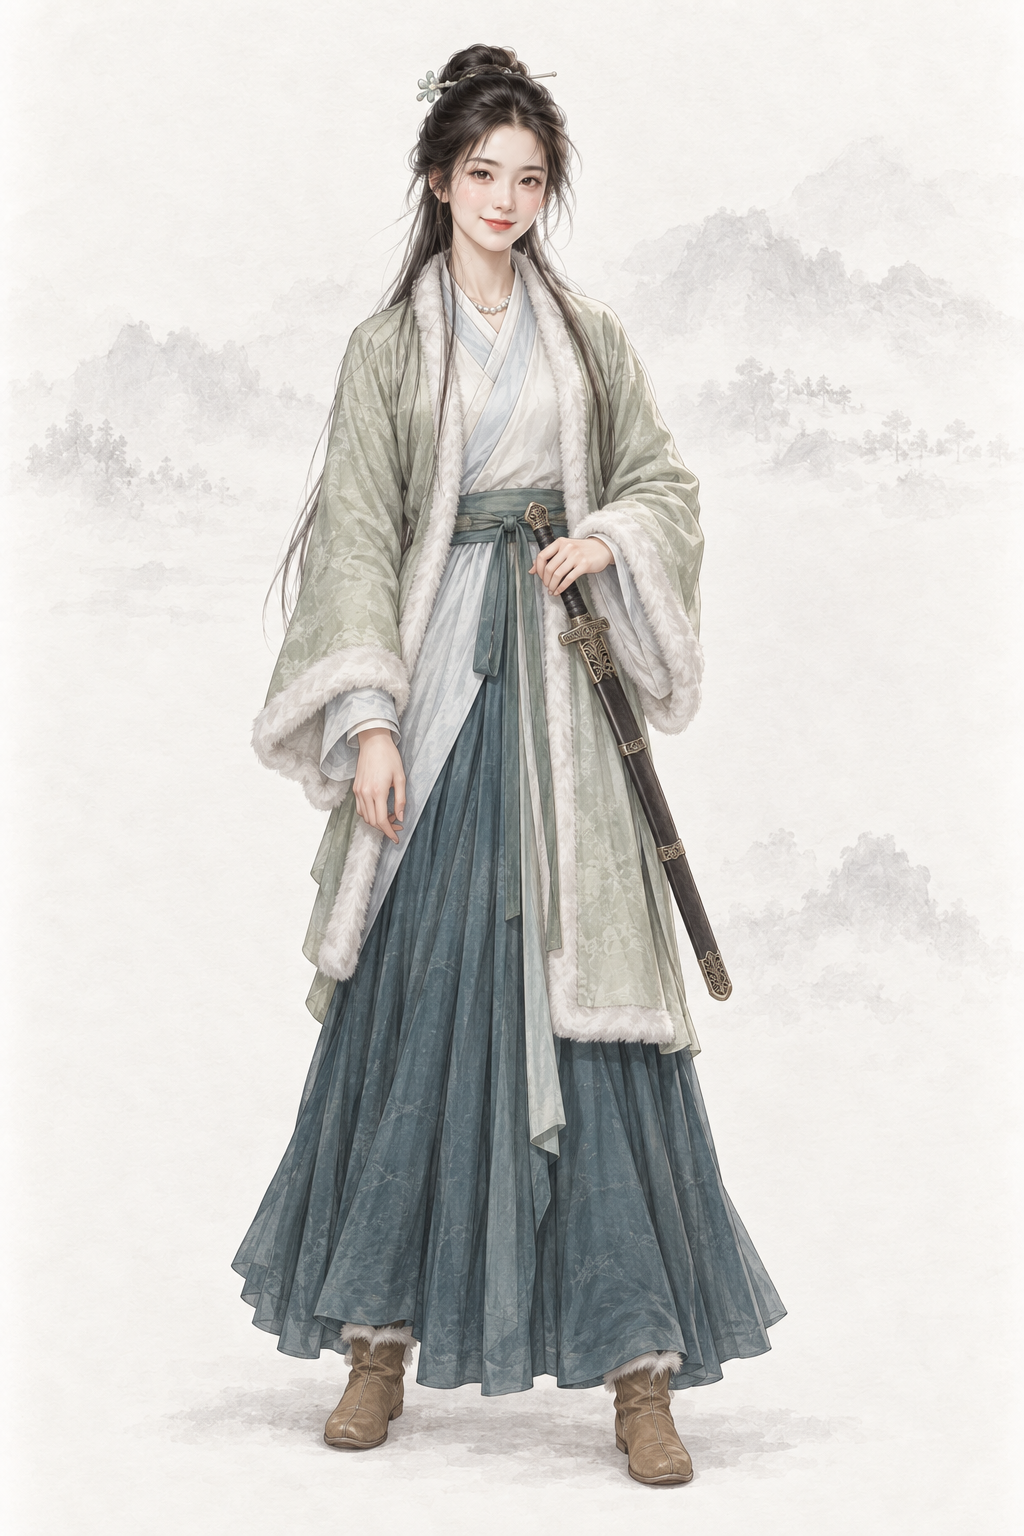
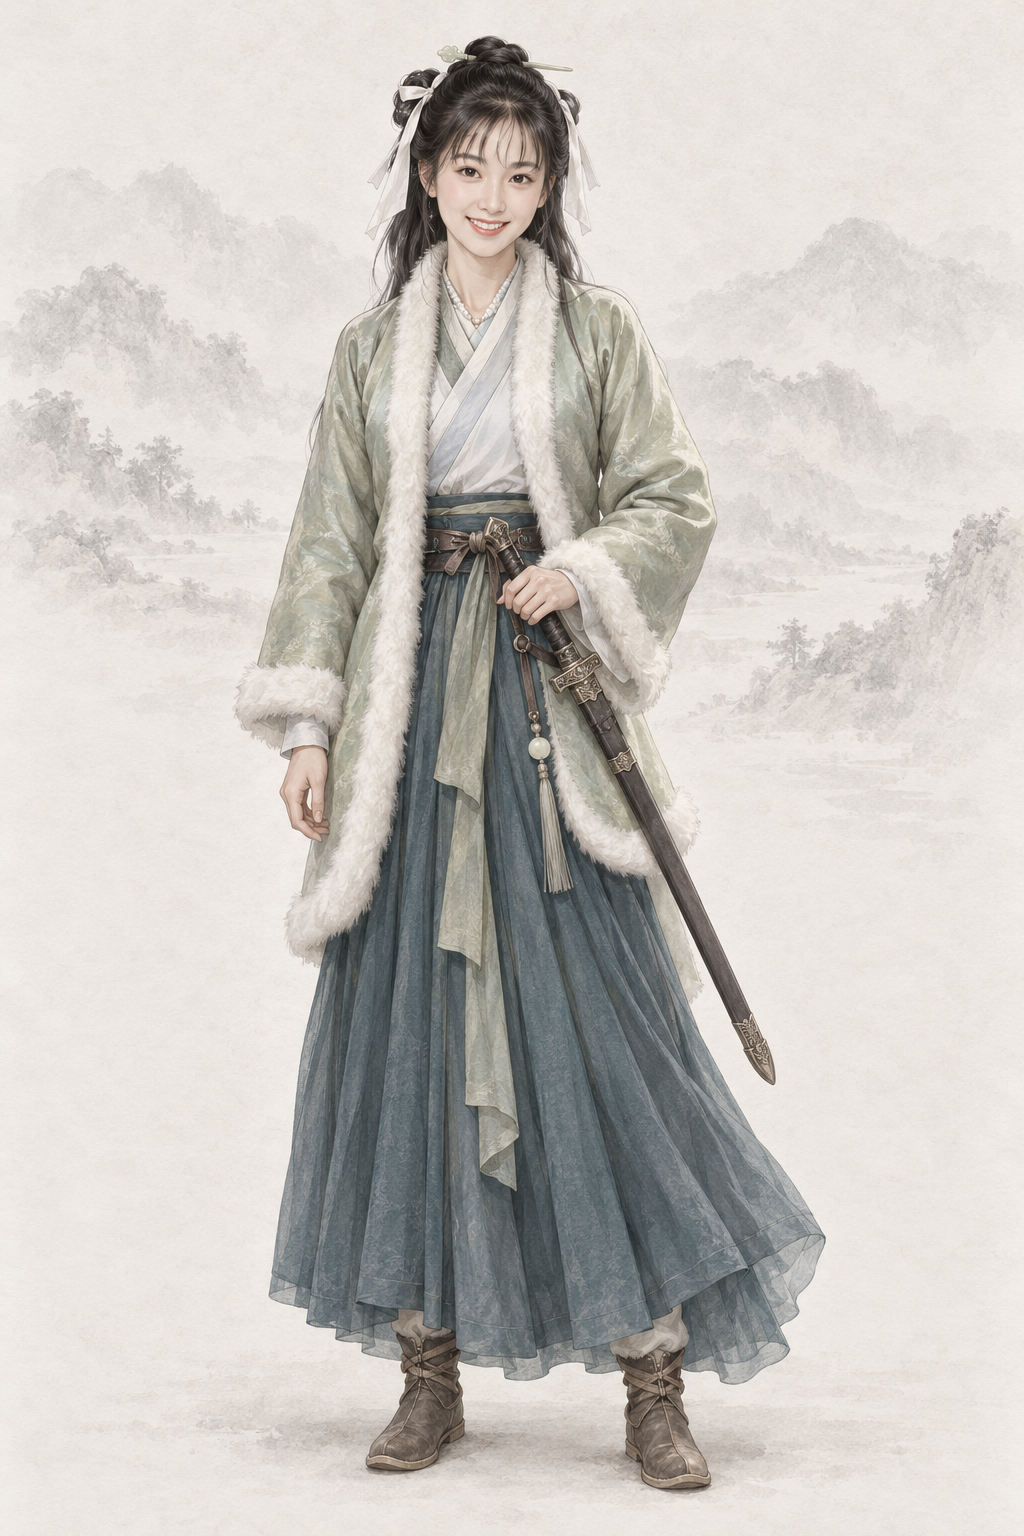
assets(character): por_npc_guoxiang__ch03_youth_base 郭襄（codex · AR-32 经典剧照 + 基线）
参考 1995 TVB《神雕侠侣》 剧照（guoxiang_1995_liqihong.jpg）与两张同性别基线重出；提示词写回、frontmatter 加 classic_ref。

diff --git a/assets/default/prompts/characters/ch03-shendiao/npc_guoxiang.md b/assets/default/prompts/characters/ch03-shendiao/npc_guoxiang.md
@@ -19,13 +19,40 @@ status: new
 realism_revision: user_identity_pose_20261001
 redo_reason: "S 级郭襄尚无立绘；按原著风陵渡“淡绿缎子皮袄、颈挂一串明珠”与禁止幼态补出成年年轻女子"
 reference_upload:
+- .agents/coord/imagegen-reference/identity-20261001/shendiao/guoxiang_1995_liqihong.jpg
 - assets/default/baseline/character/female/ref_npc_wangyuyan__ch01_base01.png
+- assets/default/baseline/character/female/ref_npc_xiaolongnv__ch03_base01.png
 codex_prompt_rev: 2026-10-02
+classic_ref:
+  version: 1995 TVB《神雕侠侣》
+  stills:
+  - .agents/coord/imagegen-reference/identity-20261001/shendiao/guoxiang_1995_liqihong.jpg
 ---
 
 # 郭襄 · 人物写实修正
 
 ## Gemini 提示词
+
+> 2026-10-02 AR-32 重出（5 号出图员，codex exec · image_gen）：主要角色改为参考经典影视版剧照加项目基线生成。上传顺序：1995 TVB《神雕侠侣》 剧照 1 张（guoxiang_1995_liqihong.jpg），最后两张为同性别画风基线（缩小版 JPEG）。剧照只借造型、气质与面部特征，画面按项目画风重绘、不复制照片。上一版（AR-31 文字版）保留在下一节作历史。
+
+```text
+生成一张 2:3 竖幅全身人物立绘：单人、单一视角、完整全身——头顶、双手、双脚和手中器物的两端都在画面内，四周留出自然空白；人物站姿自然，身体基本朝向正面，头部端正（不歪头、不仰不俯），镜头平视。
+【画风】写实手绘古风人物插画，与本项目写实武侠角色立绘同一画风：人物是完整、坚实、比例真实的写实绘画；皮肤有真实质感——细小毛孔、细纹、晒痕、轻微色斑和自然的左右不对称，不磨皮、不油亮；头发有一根根的发丝和自然碎发；布料看得出经纬纹理、厚薄和自然垂坠的褶皱，带穿用过的轻微旧化，但完整不破烂；整体设色低饱和、沉稳；柔和的自然光从左上方照来，明暗过渡自然，不打舞台光、轮廓光或美颜柔光。这是手绘写实绘画，不是照片，不是三维渲染，也不是动漫或游戏 CG。
+【背景】不透明的暖浅灰色纸底，只在远处有极淡的水墨远山和薄雾，大面积留白；人物与背景明暗分明、轮廓边缘干净完整（后续要自动抠图），水墨和纸纹只在背景里，不侵入人物和衣服；脚下只有很淡的一点接触阴影。
+【人物】郭襄，《神雕侠侣》郭靖、黄蓉的二女儿，人称“小东邪”；十六年后在风陵渡结识神雕侠、得到三枚金针的阶段，尚未创立峨眉。爽朗豪迈、好奇热忱、心地纯善。
+【年龄与体态】原著十六岁，按本作规定画成约二十岁的成年年轻女子，身材匀称修长。成年女性的身体比例（约 7 头身），衣着完整端庄、不透明、不暴露、不性感化。
+【经典造型】以九十年代中期经典港剧里那位灵动爽朗的「小东邪」为蓝本（见剧照）：清秀明朗的脸、明亮灵动的眼睛、爽朗热忱的笑容；乌发挽髻、发髻两侧系白色丝带；淡绿皮袄（领口袖口一圈白毛边）、颈挂一串明珠（已是成年人）。
+【面容】眉目清秀而有英气：略长的鹅蛋脸，眉毛清秀上扬，眼睛明亮灵动、眼神爽朗好奇，鼻梁挺秀，嘴角带着爽朗的笑意；两颊被北方冬天的寒风吹得微红。兼有父亲的英气和母亲的灵秀，但是她自己的面孔，不复制黄蓉（原创扩展）。清秀灵动、明朗可爱的美人。
+【发式】乌发挽成未婚女子的发髻，发髻两侧系白色丝带、插一支玉簪，鬓边少量碎发。
+【服饰】原著风陵渡时穿淡绿缎子的皮袄、颈中挂一串明珠：淡绿色缎面皮袄（领口与袖口有一圈白色毛边，冬装），月白内衫，深青长裙，鹿皮短靴；颈间挂一串明珠。
+【道具】腰间佩一柄普通长剑，完整入鞘。
+【姿态与神情】大方站立，一手按在剑柄上；神情明朗豪爽，像正要去闯荡江湖。
+【不要】画面里不要任何文字、题款、印章、签名、水印、边框、分格或多视图；不要第二个人；不要幼态（童颜、娃娃脸、婴儿肥、儿童或少年身材、大头小身）；不要塑料感皮肤、磨皮美颜、网红脸（尖下巴大眼高鼻的模板脸）、过度对称、浓妆、偶像式打光、蜡像感；不要照片质感、三维渲染或动漫大眼；不要歪头、斜镜头；不要多指、缺指（设定的伤残除外）、手与器物粘连或悬空；汉式交领必须右衽（穿着者的左襟压在右襟上），不要左衽（设定为少数民族服制的除外），不要水平镜像；不要现代物品、发光特效、法阵或能量光。不要少女或儿童身材、娃娃脸；不要复制黄蓉的脸；不要倚天剑或峨眉掌门装束（尚未创派）。
+【参考图】随提示词上传的参考图共 3 张，按顺序：第 1 张是这个角色经典影视造型的剧照：借鉴其发型、服饰、配色、标志道具、气质和面部特征，让人一眼认出是这个角色；但必须重新绘制成本项目的画风，不要照片质感，不要照搬剧照的构图、光影、背景和姿势，也不要做成照片修图；剧照与上文文字有出入时，以上文文字为准。最后两张是本项目的立绘画风基线：画风、用色、光线、质感和暖浅灰纸底加淡水墨的背景以它们为准——精细写实的数字手绘插画，不是油画，不要厚涂笔触和画布纹理；基线图里人物的长相、年龄、发型、服饰和姿势一律不取。
+【去 AI 味】手绘插画质感，不是 CG 渲染：不要过度光滑的皮肤、完美对称的五官、塑料高光、过度锐利的发丝；保留自然的笔触和细微不完美。
+```
+
+## AR-31 文字版 Gemini 提示词（2026-10-02 凌晨；AR-32 剧照版之前，历史，不再用于出图）
 
 > 2026-10-02 AR-31 改写（1 号出图员，codex exec · image_gen 出图）：重要人物借鉴经典影视造型，只写成文字——不写演员名、不上传剧照、原创面孔；主角和美人画得好看，去 AI 味，禁止幼态。出图时上传两张同性别基线立绘作画风参考（放在最后）。审核组原稿保留在下一节作历史。
 
